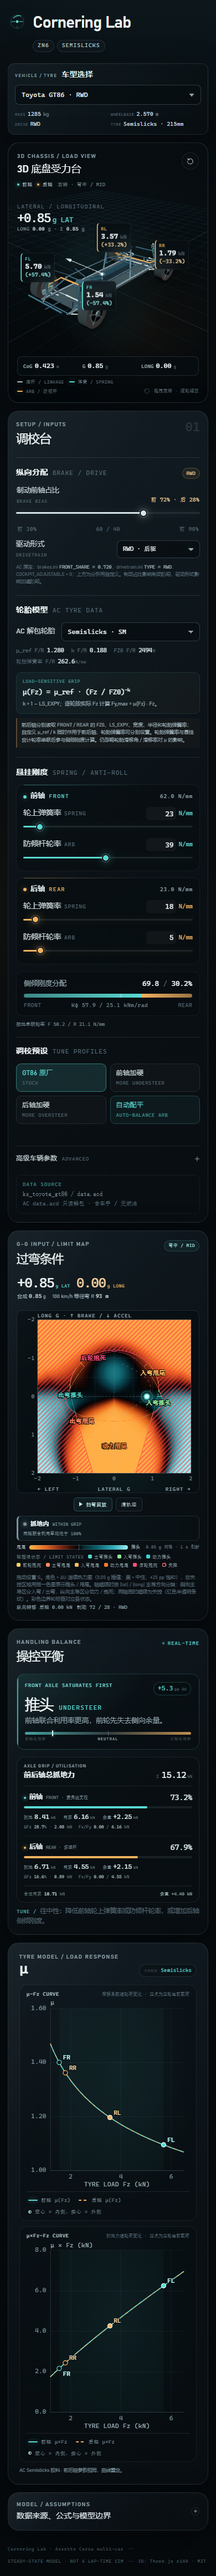
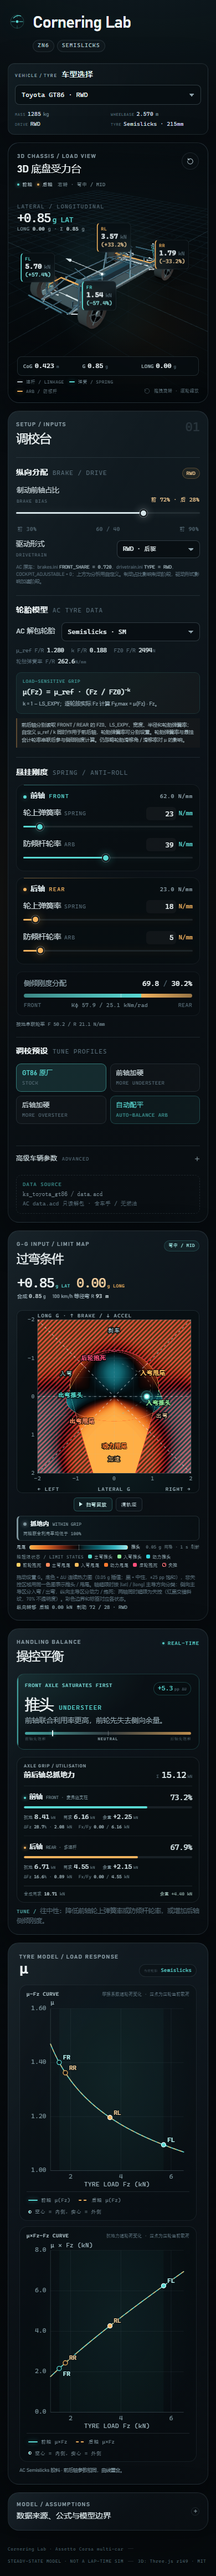
Add phase guides and dominance-based limit states

Changed region(s): [[0.1538, 0.4991, 0.8923, 0.5927]]

diff --git a/app.js b/app.js
@@ -63,7 +63,7 @@
     'corner-entry-oversteer': [255, 191, 94],
     'power-over': [255, 122, 47],
     'rear-lock': [255, 79, 123],
-    'loss-of-control': [255, 59, 69]
+    'loss-of-control': [200, 38, 50]
   };
   var G_STATE_DESCRIPTIONS = {
     'corner-exit-understeer': '侧向主导、加速；前轴先达到 100% 联合利用率',
@@ -731,12 +731,20 @@
     var grid = $('gPadGrid');
     var axes = $('gPadAxes');
     var guide = $('gPadCornerGuide');
+    var auxLines = $('gPadAuxLines');
+    var auxLabels = $('gPadAuxLabels');
     if (!grid || !axes || !guide) {
       return;
     }
 
     clearSvgGroup(grid);
     clearSvgGroup(axes);
+    if (auxLines) {
+      clearSvgGroup(auxLines);
+    }
+    if (auxLabels) {
+      clearSvgGroup(auxLabels);
+    }
 
     var plotWidth = G_PAD.width - G_PAD.left - G_PAD.right;
     var plotHeight = G_PAD.bottom - G_PAD.top;
@@ -789,14 +797,6 @@
       y2: G_PAD.bottom,
       class: 'g-pad-zero-axis'
     }));
-    axes.appendChild(createSvgElement('line', {
-      x1: G_PAD.left,
-      y1: gPadY(0).toFixed(2),
-      x2: G_PAD.width - G_PAD.right,
-      y2: gPadY(0).toFixed(2),
-      class: 'g-pad-zero-axis'
-    }));
-
     axes.appendChild(createSvgElement('text', {
       x: G_PAD.left,
       y: G_PAD.top - 4,
@@ -821,6 +821,38 @@
       'text-anchor': 'end',
       class: 'g-pad-axis-title'
     }, 'RIGHT →'));
+
+    if (auxLines) {
+      [
+        { lat1: G_PAD.gMin, long1: G_PAD.gMin, lat2: G_PAD.gMax, long2: G_PAD.gMax },
+        { lat1: G_PAD.gMin, long1: G_PAD.gMax, lat2: G_PAD.gMax, long2: G_PAD.gMin },
+        { lat1: G_PAD.gMin, long1: 0, lat2: G_PAD.gMax, long2: 0 }
+      ].forEach(function (line) {
+        auxLines.appendChild(createSvgElement('line', {
+          x1: gPadX(line.lat1).toFixed(2),
+          y1: gPadY(line.long1).toFixed(2),
+          x2: gPadX(line.lat2).toFixed(2),
+          y2: gPadY(line.long2).toFixed(2),
+          class: 'g-pad-aux-line'
+        }));
+      });
+    }
+
+    if (auxLabels) {
+      [
+        { text: '刹车', lat: 0, long: -1.68, className: 'g-pad-aux-label--brake' },
+        { text: '入弯', lat: -1.25, long: -0.55, className: 'g-pad-aux-label--entry' },
+        { text: '出弯', lat: 1.25, long: 0.55, className: 'g-pad-aux-label--exit' },
+        { text: '加速', lat: 0, long: 1.68, className: 'g-pad-aux-label--accel' }
+      ].forEach(function (label) {
+        auxLabels.appendChild(createSvgElement('text', {
+          x: gPadX(label.lat).toFixed(2),
+          y: gPadY(label.long).toFixed(2),
+          'text-anchor': 'middle',
+          class: 'g-pad-aux-label ' + label.className
+        }, label.text));
+      });
+    }
 
     var guidePoints = [];
     for (var i = 0; i <= 100; i += 1) {
@@ -1028,18 +1060,22 @@
           : 0;
 
         if (lossColor) {
-          // Loss of control is the only categorical region: 50%-alpha red
-          // hazard stripes over the ΔU field.
+          // Loss of control: red/black diagonal stripes at 70% opacity over the
+          // ΔU field. This dims the impossible over/under heatmap underneath.
           var stripe = ((px + py) % 16) < 8;
-          if (stripe) {
-            pixels[dataIndex] = Math.round(baseR * 0.5 + lossColor[0] * 0.5);
-            pixels[dataIndex + 1] = Math.round(baseG * 0.5 + lossColor[1] * 0.5);
-            pixels[dataIndex + 2] = Math.round(baseB * 0.5 + lossColor[2] * 0.5);
-          } else {
-            pixels[dataIndex] = baseR;
-            pixels[dataIndex + 1] = baseG;
-            pixels[dataIndex + 2] = baseB;
-          }
+          var stripeR = stripe ? lossColor[0] : 0;
+          var stripeG = stripe ? lossColor[1] : 0;
+          var stripeB = stripe ? lossColor[2] : 0;
+          var lossAlpha = 0.70;
+          pixels[dataIndex] = Math.round(
+            baseR * (1 - lossAlpha) + stripeR * lossAlpha
+          );
+          pixels[dataIndex + 1] = Math.round(
+            baseG * (1 - lossAlpha) + stripeG * lossAlpha
+          );
+          pixels[dataIndex + 2] = Math.round(
+            baseB * (1 - lossAlpha) + stripeB * lossAlpha
+          );
           pixels[dataIndex + 3] = 255;
         } else {
           pixels[dataIndex] = baseR;

diff --git a/styles.css b/styles.css
@@ -671,6 +671,39 @@ input:focus-visible {
   opacity: 0.55;
 }
 
+.g-pad-aux-line {
+  stroke: rgba(228, 245, 250, 0.56);
+  stroke-width: 1.15;
+  stroke-dasharray: 4 5;
+}
+
+.g-pad-aux-label {
+  fill: #b9cdd2;
+  font-family: var(--font-mono);
+  font-size: 10px;
+  letter-spacing: 0.1em;
+  paint-order: stroke;
+  stroke: rgba(4, 10, 13, 0.9);
+  stroke-width: 3.5px;
+  stroke-linejoin: round;
+}
+
+.g-pad-aux-label--entry {
+  fill: #9edbd1;
+}
+
+.g-pad-aux-label--exit {
+  fill: #e6c69a;
+}
+
+.g-pad-aux-label--brake {
+  fill: #b8d9e2;
+}
+
+.g-pad-aux-label--accel {
+  fill: #e6b477;
+}
+
 .g-pad-trail {
   stroke: rgba(89, 217, 211, 0.9);
   stroke-width: 2;
@@ -783,7 +816,7 @@ input:focus-visible {
 .g-vehicle-state[data-state="corner-entry-oversteer"] { --state-color: #ffbf5e; }
 .g-vehicle-state[data-state="power-over"] { --state-color: #ff7a2f; }
 .g-vehicle-state[data-state="rear-lock"] { --state-color: #ff4f7b; }
-.g-vehicle-state[data-state="loss-of-control"] { --state-color: #ff3b45; }
+.g-vehicle-state[data-state="loss-of-control"] { --state-color: #c82632; }
 
 .g-vehicle-state-dot {
   flex: 0 0 auto;
@@ -869,7 +902,7 @@ input:focus-visible {
 .g-state-key span[data-state="corner-entry-oversteer"] { --state-color: #ffbf5e; }
 .g-state-key span[data-state="power-over"] { --state-color: #ff7a2f; }
 .g-state-key span[data-state="rear-lock"] { --state-color: #ff4f7b; }
-.g-state-key span[data-state="loss-of-control"] { --state-color: #ff3b45; }
+.g-state-key span[data-state="loss-of-control"] { --state-color: #c82632; }
 
 .g-state-key span[data-state] i {
   width: 7px;
@@ -883,8 +916,8 @@ input:focus-visible {
   border: 1px solid #ff8b91;
   background: repeating-linear-gradient(
     45deg,
-    rgba(255, 59, 69, 0.5) 0 2px,
-    transparent 2px 4px
+    rgba(200, 38, 50, 0.7) 0 2px,
+    rgba(0, 0, 0, 0.7) 2px 4px
   );
   box-shadow: none;
 }

diff --git a/index.html b/index.html
@@ -525,9 +525,11 @@
               </defs>
               <g id="gPadGrid" class="g-pad-grid"></g>
               <g id="gPadAxes" class="g-pad-axes"></g>
+              <g id="gPadAuxLines" class="g-pad-aux-lines" aria-hidden="true"></g>
               <path id="gPadCornerGuide" class="g-pad-guide" fill="none"></path>
               <path id="gPadTrail" class="g-pad-trail" fill="none"></path>
               <g id="gPadStateLabels" class="g-pad-state-labels" aria-hidden="true"></g>
+              <g id="gPadAuxLabels" class="g-pad-aux-labels" aria-hidden="true"></g>
               <line id="gPadProjectionX" class="g-pad-projection" aria-hidden="true"></line>
               <line id="gPadProjectionY" class="g-pad-projection" aria-hidden="true"></line>
               <circle id="gPadCursorHalo" class="g-pad-cursor-halo" r="10" aria-hidden="true"></circle>
@@ -575,7 +577,7 @@
           </div>
 
           <p class="g-pad-note">
-            拖动设置 G。底色 = ΔU 连续热力图（0.05 g 插值；黑 = 中性，±25 pp 饱和），非失控区域用同一色图表示推头 / 甩尾。轴超限时按 |lat| / |long| 主导方向分类：侧向主导区分入弯 / 出弯，纵向主导区分动力 / 抱死；两轴同时超限为失控（红色半透明条纹）。彩色边界和标签对应各状态。
+            拖动设置 G。底色 = ΔU 连续热力图（0.05 g 插值；黑 = 中性，±25 pp 饱和），非失控区域用同一色图表示推头 / 甩尾。轴超限时按 |lat| / |long| 主导方向分类：侧向主导区分入弯 / 出弯，纵向主导区分动力 / 抱死；两轴同时超限为失控（红黑交错斜纹，70% 不透明度）。彩色边界和标签对应各状态。
             <span id="gLongTransferNote">纵向转移 后轴 +0.00 kN</span>
             <span id="gDistributionNote">制动 72 / 28 · RWD</span>
           </p>

diff --git a/README.md b/README.md
@@ -37,8 +37,9 @@
 - **仪表盘布局**：左侧是独立的调校台（纵向分配、轮胎参数、悬挂刚度、预设和高级参数）；右侧是以 2 × 2 排列的 **3D 底盘 / 过弯条件 G-G / 操控平衡 / 轮胎 μ** 四个面板。μ 面板内的两张曲线图并排显示；窄屏下自动折叠为单列，移动端两张图改为纵排。
 - **车型选择栏**：切换车辆时，质量、轴距、前轴荷、轮距、质心高度、轮上弹簧率 / 防倾杆轮率、制动分配、驱动形式、默认轮胎和可选胶料全部按该车 `data.acd` 更新。
 - **二维 G-G 输入**：横轴为侧向 G（左 / 右），纵轴为纵向 G，**向上为制动（负纵向 G），向下为加速（正纵向 G）**，显示范围 **±2 g**；支持鼠标、触摸、方向键，轨迹保留最近 220 个点。
+- **相位辅助线**：绘制 `y=0`、`y=x`、`y=-x` 三条虚线，并标注刹车、入弯、出弯、加速区域；入弯与出弯各标一侧。
 - **连续推头 / 甩尾底色**：按当前底盘设置以 **0.05 g 网格**（81 × 81 节点）预计算前后轴利用率差 ΔU，再双线性插值到整个 G-G 面板；采用 ICE–黑色–FIRE 发散色图，黑色 = 中性，±25 pp 饱和。底色最多每 **1 秒**在后台刷新一次（仅在调校参数变化时重算），不随光标或回放每帧重算。
-- **轴超限车辆状态**：当某轴联合利用率达到 100% 时，按 **|lat G| / |long G| 主导方向**与纵向 G 的方向分类：前轴超限且侧向主导 → 加速出弯推头 / 减速入弯推头；后轴超限且侧向主导 → 加速出弯甩尾 / 减速入弯甩尾；后轴超限且纵向主导 → 加速动力甩尾 / 减速后轮抱死；前轴超限且纵向主导 → 加速动力推头 / 减速前轮抱死；前后轴同时超限 → **失控 / LOSS OF CONTROL**。纵向 G 为 0 或 |lat G| = |long G| 时没有方向状态。非失控区域全部保留与抓地内相同的 ΔU 连续色图来表示推头 / 甩尾，方向状态只用彩色边界和文字标签标出；失控区域使用 50% alpha 红色斜纹填充，不绘制区域文字标签。这些是**轴抓地饱和分类标签**，不是滑移动力学中的真实抱死 / 甩尾仿真。
+- **轴超限车辆状态**：当某轴联合利用率达到 100% 时，按 **|lat G| / |long G| 主导方向**与纵向 G 的方向分类：前轴超限且侧向主导 → 加速出弯推头 / 减速入弯推头；后轴超限且侧向主导 → 加速出弯甩尾 / 减速入弯甩尾；后轴超限且纵向主导 → 加速动力甩尾 / 减速后轮抱死；前轴超限且纵向主导 → 加速动力推头 / 减速前轮抱死；前后轴同时超限 → **失控 / LOSS OF CONTROL**。纵向 G 为 0 或 |lat G| = |long G| 时没有方向状态。非失控区域全部保留与抓地内相同的 ΔU 连续色图来表示推头 / 甩尾，方向状态只用彩色边界和文字标签标出；失控区域使用 70% 不透明度的红黑交错斜纹填充，压低其下不可能区域的 ΔU 热度，不绘制区域文字标签。这些是**轴抓地饱和分类标签**，不是滑移动力学中的真实抱死 / 甩尾仿真。
 - **入弯 → 弯心 → 出弯回放**：6.2 秒自动扫过从制动入弯、trail braking 到加速出弯的连续 G 组合；状态、载荷、轴抓地力、3D 底盘、弹簧、ARB 与 μ 曲线同步刷新。
 - 可旋转 / 缩放的 3D 底盘：悬挂按车种重建——AC 原始 `TYPE=DWB` 显示上下叉臂，`TYPE=STRUT` 显示支柱；MX-5 ND / Cup 前后双叉臂，GT86 / 22B 前麦弗逊，GT86 后悬按多连杆视觉重建；22B 后悬原始数据为 STRUT。其余新增车型按各自 `suspensions.ini` 的 DWB / STRUT 类型和硬点重建。摆臂、转向拉杆和 STRUT 轴线使用解包硬点，轴距 / 轮距 / 轴荷变化会实时反映到杆长和弹簧位置；空间架车身外形仍是简化示意。
 - 3D **CoG 质心标签 + 垂线 / 地面投影**；G 力箭头长度由合成 G 决定，方向表示惯性力（指向弯外侧，加速指向后方）。
@@ -174,7 +175,7 @@ U          = F_res,axle / Fgrip,axle
 - 纵向 G 通过质心高度与轴距在前后轴间转移垂直载荷；每个车轮的 μ 按其实际 Fz 查曲线。
 - 前 / 后轴总抓地力是该轴两只轮胎的 `Fy,max` 之和。
 - 合成需求包含侧向需求和纵向需求；利用率高的一轴先达到联合极限：前轴高 → understeer；后轴高 → oversteer。
-- G-G 底色对 0.05 g 网格逐节点计算同样的模型：用前后轴联合利用率差 ΔU 着色，双线性插值到面板。抓地内和轴超限的非失控区域都使用同一套 ΔU 色图；八种方向状态只绘制彩色边界和标签，失控区域使用 50% alpha 红色斜纹填充且不绘制区域文字标签。每隔 1 秒仅在参数变化时重算一次。
+- G-G 底色对 0.05 g 网格逐节点计算同样的模型：用前后轴联合利用率差 ΔU 着色，双线性插值到面板。抓地内和轴超限的非失控区域都使用同一套 ΔU 色图；八种方向状态只绘制彩色边界和标签，失控区域使用 70% 不透明度的红黑交错斜纹填充且不绘制区域文字标签。每隔 1 秒仅在参数变化时重算一次。
 - 车辆状态判定（U ≥ 100% 表示该轴达到联合抓地圆极限）：
   ```text
   U_F ≥ 1 且 U_R ≥ 1                       → 失控 / LOSS OF CONTROL
